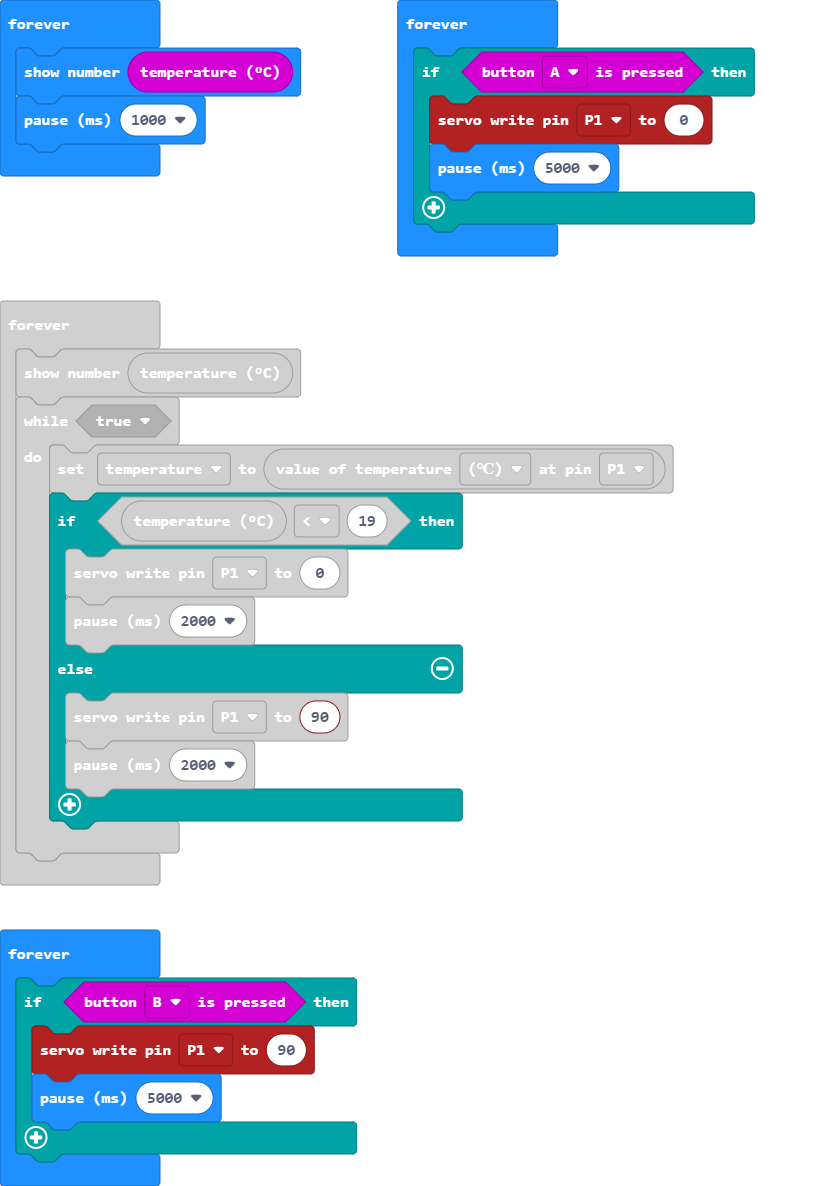
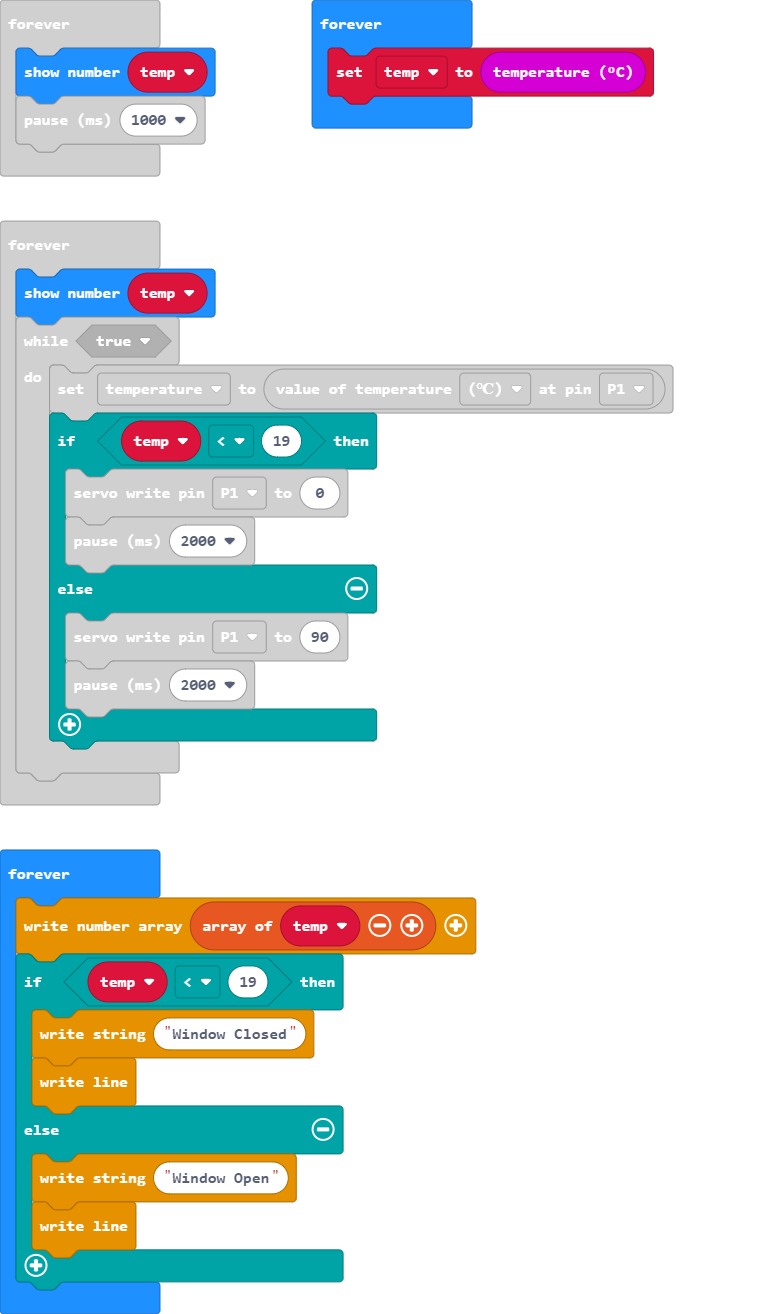
Update pxt.json, main.blocks, main.ts, main.py

diff --git a/main.ts b/main.ts
@@ -1,8 +1,12 @@
 let temperature = 0
+let temp = 0
 pins.servoWritePin(AnalogPin.P1, 0)
 basic.forever(function () {
-    basic.showNumber(input.temperature())
+    basic.showNumber(temp)
     basic.pause(1000)
+})
+basic.forever(function () {
+    temp = input.temperature()
 })
 basic.forever(function () {
     if (input.buttonIsPressed(Button.A)) {
@@ -11,10 +15,10 @@ basic.forever(function () {
     }
 })
 basic.forever(function () {
-    basic.showNumber(input.temperature())
+    basic.showNumber(temp)
     while (true) {
         temperature = smarthome.ReadTemperature(TMP36Type.TMP36_temperature_C, AnalogPin.P1)
-        if (input.temperature() < 19) {
+        if (temp < 19) {
             pins.servoWritePin(AnalogPin.P1, 0)
             basic.pause(2000)
         } else {
@@ -27,5 +31,15 @@ basic.forever(function () {
     if (input.buttonIsPressed(Button.B)) {
         pins.servoWritePin(AnalogPin.P1, 90)
         basic.pause(5000)
+    }
+})
+basic.forever(function () {
+    dataStreamer.writeNumberArray([temp])
+    if (temp < 19) {
+        dataStreamer.writeString("Window Closed")
+        dataStreamer.writeLine()
+    } else {
+        dataStreamer.writeString("Window Open")
+        dataStreamer.writeLine()
     }
 })

diff --git a/main.py b/main.py
@@ -1,20 +1,46 @@
 temperature = 0
+temp = 0
 pins.servo_write_pin(AnalogPin.P1, 0)
 
 def on_forever():
+    basic.show_number(temp)
+    basic.pause(1000)
+basic.forever(on_forever)
+
+def on_forever2():
+    global temp
+    temp = input.temperature()
+basic.forever(on_forever2)
+
+def on_forever3():
+    if input.button_is_pressed(Button.A):
+        pins.servo_write_pin(AnalogPin.P1, 0)
+        basic.pause(5000)
+basic.forever(on_forever3)
+
+def on_forever4():
     global temperature
-    basic.show_number(input.temperature())
+    basic.show_number(temp)
     while True:
         temperature = smarthome.read_temperature(TMP36Type.TMP36_TEMPERATURE_C, AnalogPin.P1)
-        if input.temperature() < 19:
+        if temp < 19:
             pins.servo_write_pin(AnalogPin.P1, 0)
             basic.pause(2000)
-        elif input.button_is_pressed(Button.B):
-            pins.servo_write_pin(AnalogPin.P1, 180)
-            basic.pause(2000)
-        elif input.button_is_pressed(Button.A):
-            pins.servo_write_pin(AnalogPin.P1, 0)
         else:
-            pins.servo_write_pin(AnalogPin.P1, 100)
+            pins.servo_write_pin(AnalogPin.P1, 90)
             basic.pause(2000)
-basic.forever(on_forever)
+basic.forever(on_forever4)
+
+def on_forever5():
+    if input.button_is_pressed(Button.B):
+        pins.servo_write_pin(AnalogPin.P1, 90)
+        basic.pause(5000)
+basic.forever(on_forever5)
+
+def on_forever6():
+    dataStreamer.write_number_array([temp])
+    if temp < 19:
+        dataStreamer.write_string("Window Closed")
+    else:
+        dataStreamer.write_string("Window Open")
+basic.forever(on_forever6)
